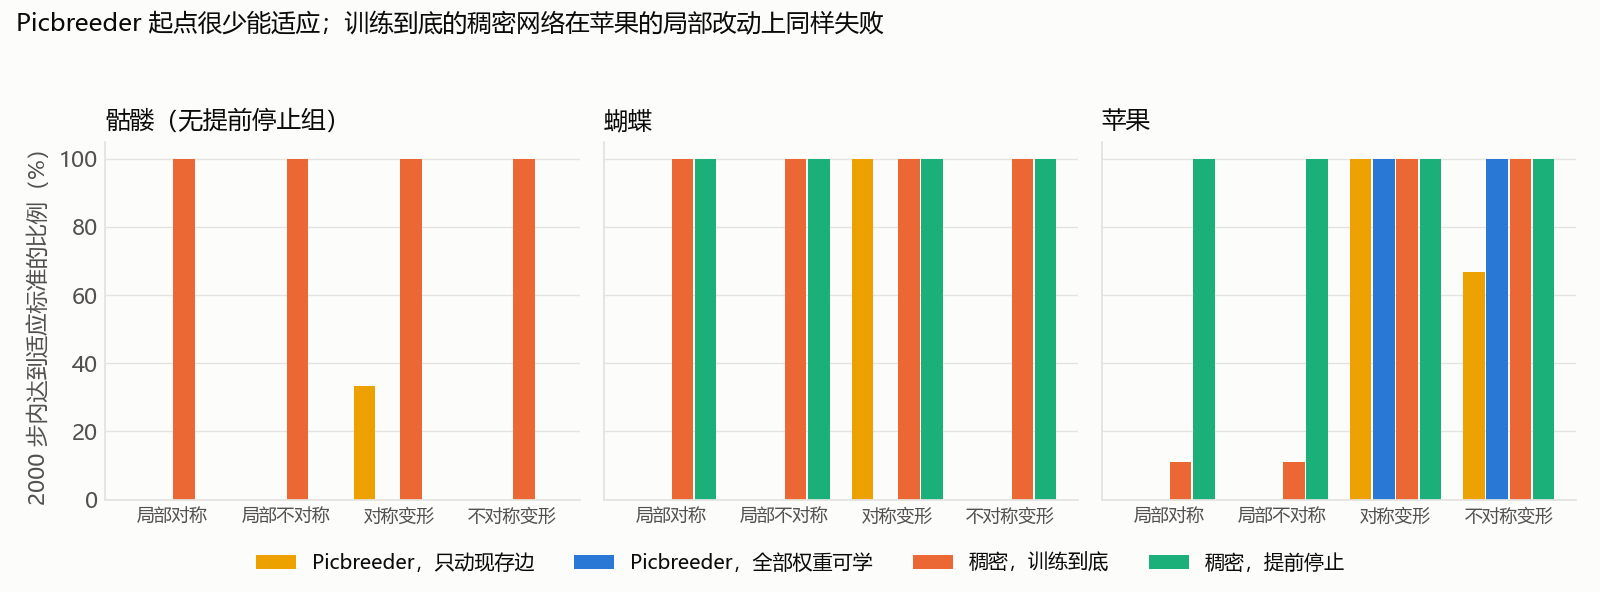
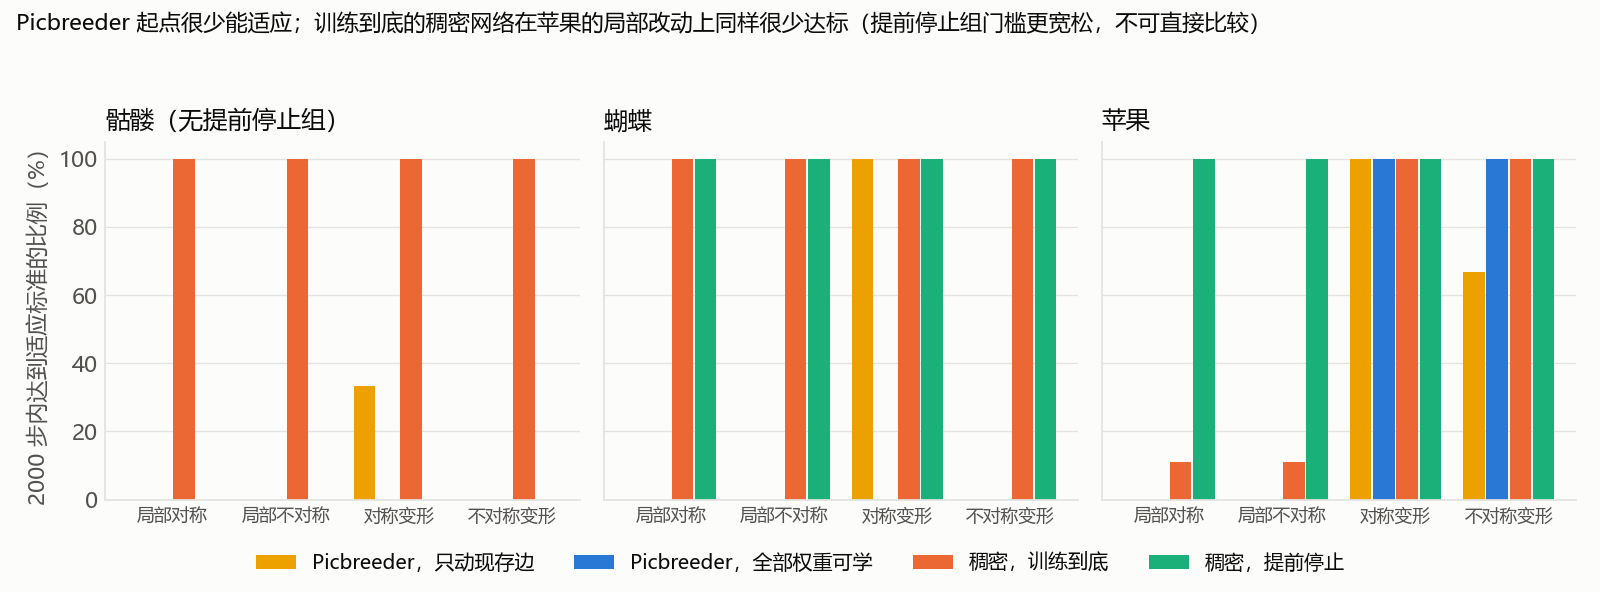
Correct the apple reading and note censored adaptation steps
The 18/18 vs 2/18 contrast on apple came mostly from the adaptation threshold, which
includes a network's own old error; G0e's final error there is higher than G0's. A1c
ratios are lower bounds, because A1 is right-censored at 2000 steps. Verdicts stand.

Changed region(s): [[0.0, 0.0, 0.7812, 0.0608]]

diff --git a/phase0/continual.py b/phase0/continual.py
@@ -8,8 +8,11 @@ edges only), G0 (fully fitted dense SGD), G0e (dense SGD stopped at MSE <= 0.006
 
 Recorded per network and edit, every 10 steps:
   A1     steps until MSE on the new target <= the network's MSE on the old target + 10% of the edit's size E0
-  F      mean squared change of the network's own output outside the edited region, divided by E0. Measuring change
-         from its own starting output keeps a network's fit level out of this number. Local edits only.
+  F      mean squared change of the network's own output outside the edited region, divided by E0. Local edits only.
+
+Known limits: A1 is right-censored at the step budget. A1's threshold and F both depend on fit level: a coarse network
+gets a looser threshold from its larger old error, and F includes its continued fitting of the old image, so G0e is not
+directly comparable with the fully fitted groups.
 """
 import argparse
 import glob

diff --git a/phase0/report_figures.py b/phase0/report_figures.py
@@ -128,7 +128,8 @@ def fig_continual(rows):
     axes[0].set_ylabel('2000 步内达到适应标准的比例（%）')
     handles, labels = axes[1].get_legend_handles_labels()
     fig.legend(handles, labels, ncol=4, frameon=False, fontsize=9, loc='lower center')
-    fig.suptitle('Picbreeder 起点很少能适应；训练到底的稠密网络在苹果的局部改动上同样失败', x=0.01, ha='left', fontsize=11)
+    fig.suptitle('Picbreeder 起点很少能适应；训练到底的稠密网络在苹果的局部改动上同样很少达标（提前停止组门槛更宽松，不可直接比较）',
+                 x=0.01, ha='left', fontsize=10)
     fig.tight_layout(rect=(0, 0.07, 1, 0.94))
     fig.savefig(os.path.join(OUT, 'report_continual.png'), dpi=160)
     plt.close(fig)

diff --git a/README.md b/README.md
@@ -8,7 +8,7 @@
 - 差距的来源**还没有回答**，主要因为稀疏网络在 5 万步内大多达不到拟合门槛（MSE < 0.01）。这也不是进化接线独有的问题：SGD 网络剪枝后同样难以达标（`phase0/out/report_sparse_fit.png`）。
 - Picbreeder 的接线本身会强制对称：skull、butterfly、apple 分别有 82%、59%、38% 的不同特征图，无论权重取什么都对称（`report_wiring_forced.png`）。
 - apple 上 M3a、M4a 的差距随拟合水平变化：稠密网络在 MSE 约 0.0065 提前停止时，这两个指标已接近 Picbreeder。butterfly 上差距不受此影响（`report_fit_level.png`）。
-- **持续学习**：预注册的 C-011 到 C-018 全部证伪，“Picbreeder 起点更利于学习小改动”失去主要支撑。在 2000 步内，它在 skull 和 butterfly 上几乎学不会，稠密网络全部学会（`report_continual.png`）。例外是 apple：训练到底的稠密网络在局部改动上同样失败（2/18），提前停止的却全部学会。
+- **持续学习**：预注册的 C-011 到 C-018 全部证伪，“Picbreeder 起点更利于学习小改动”失去主要支撑。在 2000 步内，它在 skull 和 butterfly 上几乎学不会，稠密网络全部学会（`report_continual.png`）。例外是 apple 的局部改动：训练到底的稠密网络同样很少达标（2/18），最终误差和 Picbreeder 接近。图中提前停止组（G0e）的高适应率不可比：适应标准含网络自身的旧误差，G0e 的门槛因此宽松得多。apple 上它的最终误差（0.247 E0）其实高于训练到底的 G0（0.219 E0），所以这不说明“越收敛越改不动”。
 - Picbreeder 是否“破坏更小”**没有测成**，因为它很少适应成功。连续学多个任务时的遗忘也还没有测。
 
 每条结论的状态以 `kb/kb_claims.json` 为准，可以用下面的命令重放。
@@ -73,7 +73,9 @@ sh run_b6.sh
 - `commits.jsonl` 的哈希链只能发现事后改动，证明不了写入时间。C-001 到 C-006 是在这个仓库建立之前写的；C-007 到 C-010 在首次推送时已存在，而结果在其后的提交里。
 - C-006 是看到 G4 结果后才加的，C-007 是事后描述。两者都不算独立的预注册检验。
 - C-011 到 C-018 注册前看过 30 步冒烟测试；PBa 组是看到其中 PBd 的 MSE 上升后才加的。首次正式运行因并发写入被清除并重跑，清除前看到过少量 skull 的适应计数。
-- 持续学习的比较里，每张图只有一个 Picbreeder 网络；相同学习率对权重更大的 Picbreeder 是更小的相对步长；颜色反转需要新增局部特征，可能不利于它。这些改动没有包含论文里张嘴、眨眼那种单权重可达的“旋钮”改动。
+- 适应步数在未适应时右删失于 2000 步，所以 A1c 的比值只是下界，不是测得的比值；两组都删失时比值 1.0 判为 PASS 没有意义（C-011、C-012、C-015、C-016 的 apple 项）。这些 claim 的证伪依据是其他任务的下界，结论不变。
+- G0e 不能和其他组直接比较：它的适应门槛含自身旧误差；它在改动外还在继续拟合原图，所以 F 也偏高。`continual.py` 里“F 不受拟合水平影响”的假设不成立。
+- 持续学习的比较里，每张图只有一个 Picbreeder 网络，同一网络的多个改动不是独立样本，所以比例和置信区间都不能当作对 Picbreeder 网络总体的推断；相同学习率对权重更大的 Picbreeder 是更小的相对步长；颜色反转需要新增局部特征，可能不利于它。这些改动没有包含论文里张嘴、眨眼那种单权重可达的“旋钮”改动。
 
 ## 第三方内容
 
